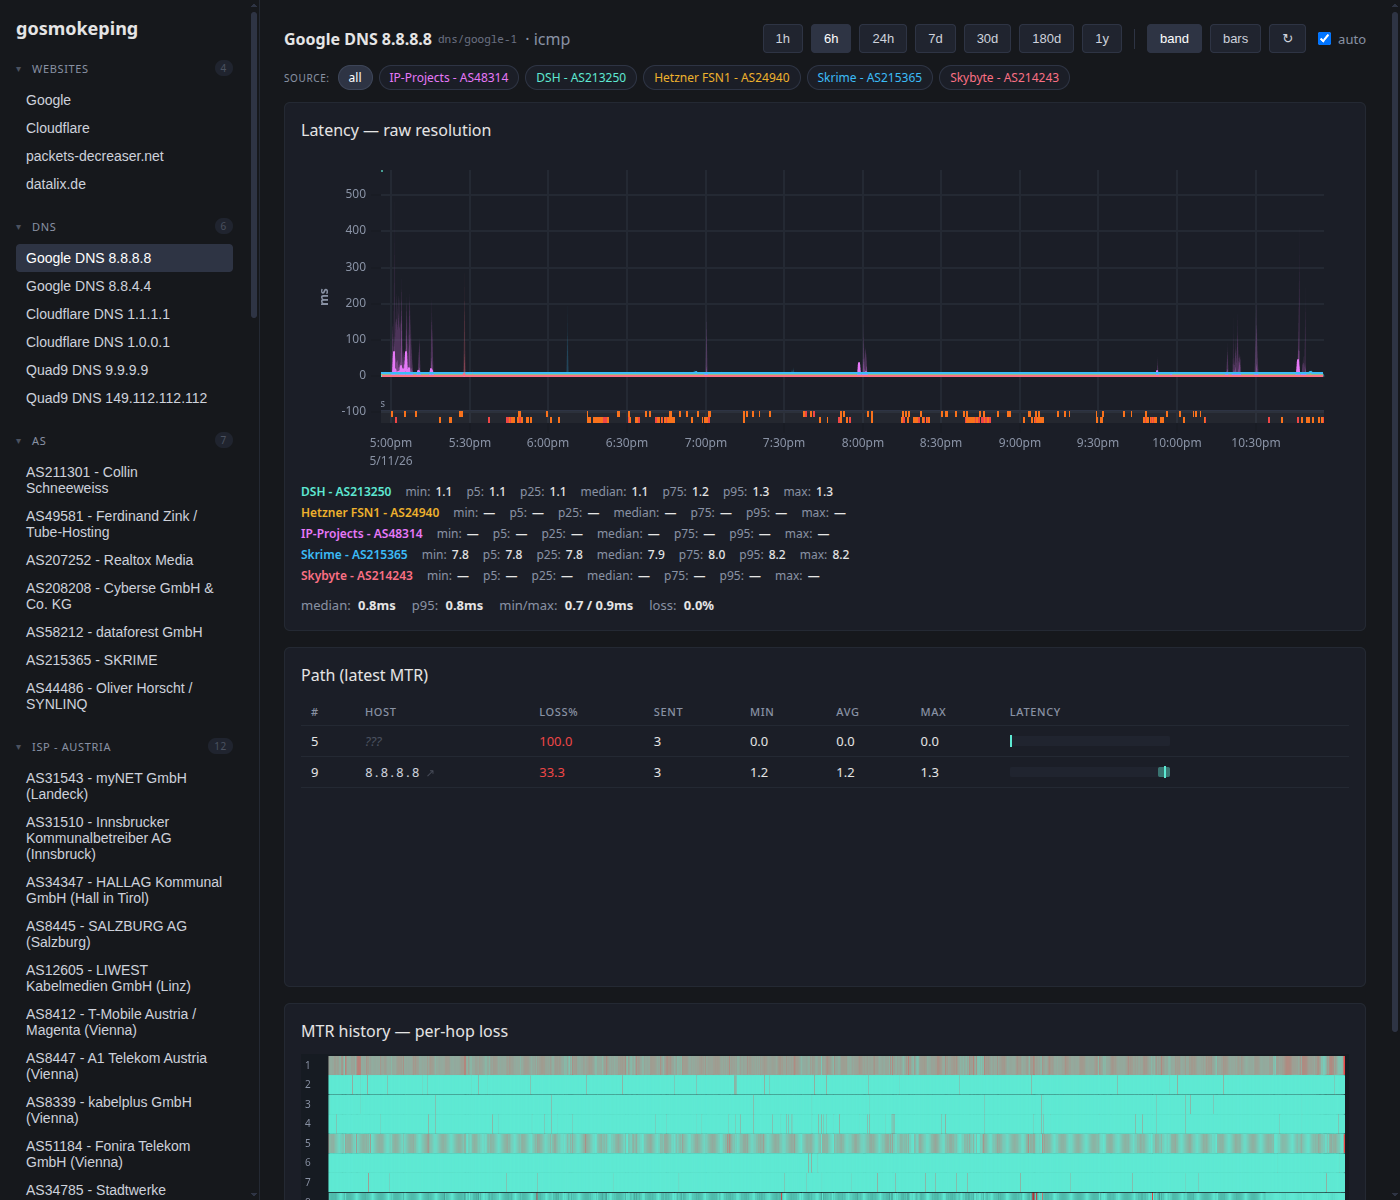
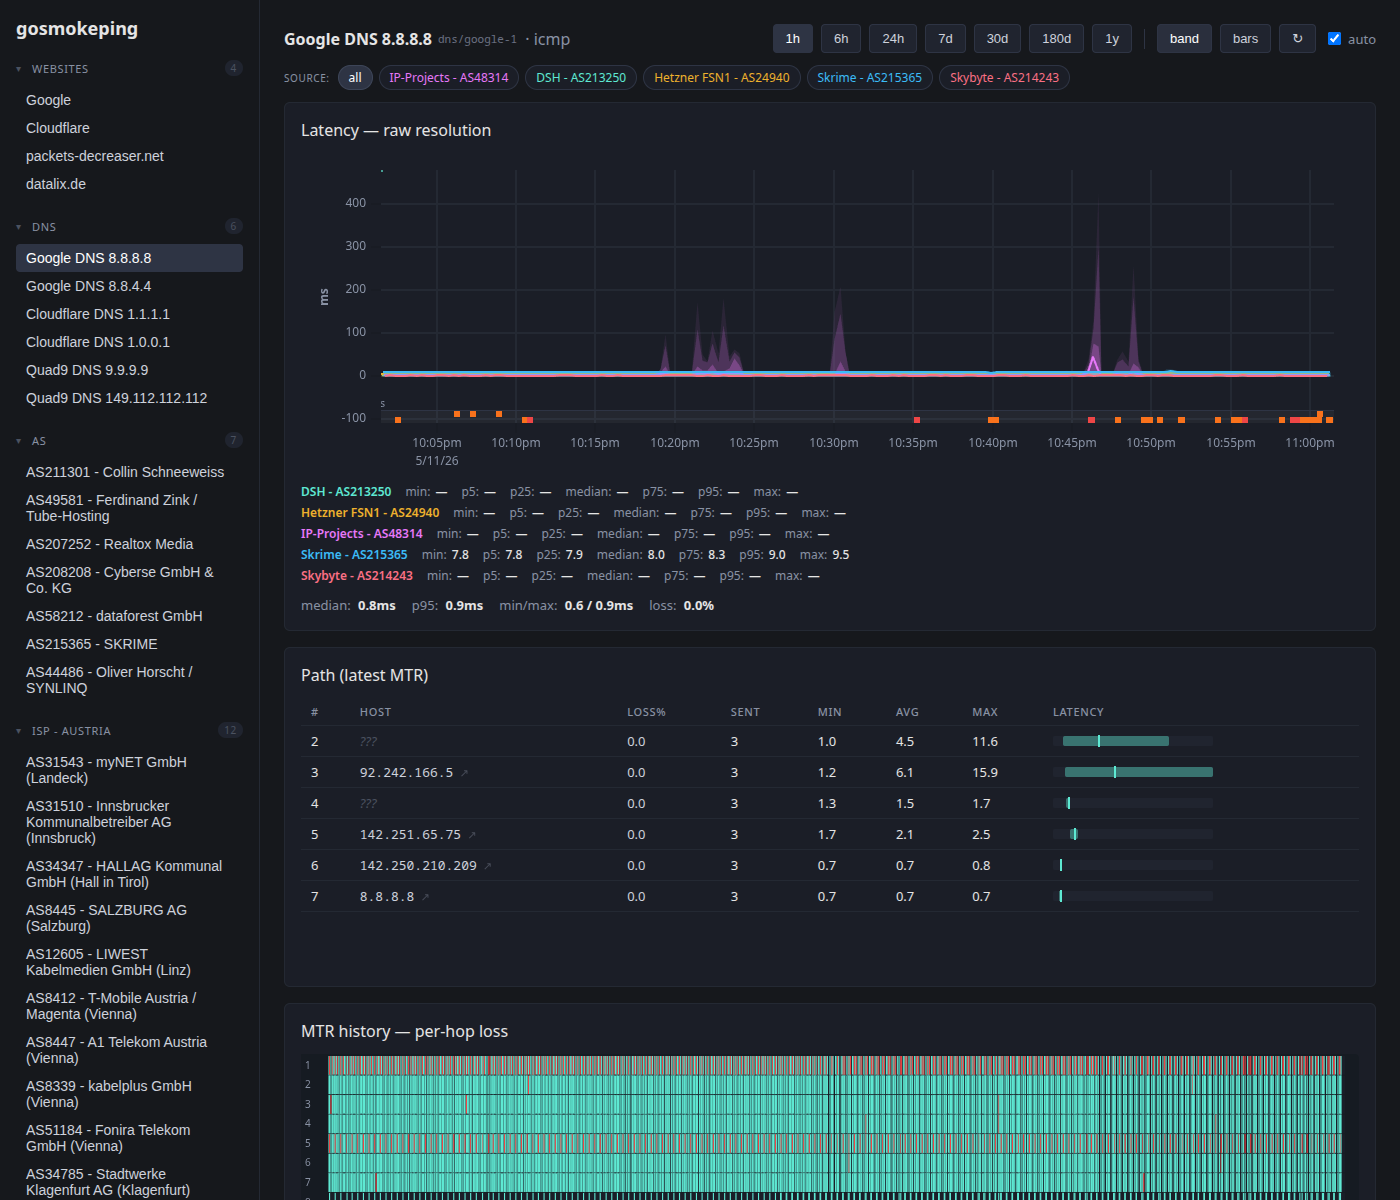
readme update and mtr update

diff --git a/ui/src/App.tsx b/ui/src/App.tsx
@@ -560,7 +560,7 @@ export default function App() {
                       setPickedSource(null);
                     }}
                     source={pickedSource ?? sourceParam}
-                    hideZeroLoss={hideZeroLossHops && pickedSec == null}
+                    hideZeroLoss={false}
                   />
                 </div>
                 {fromSec != null && toSec != null && (
